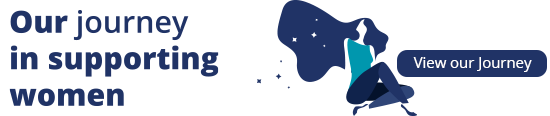
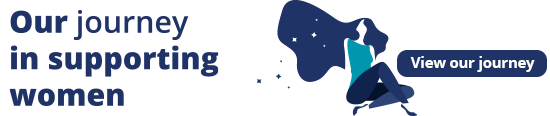
Fixed caps on the word journey

Changed region(s): [[0.7418, 0.4914, 0.9891, 0.6207]]

diff --git a/public/Women_Journey/index.html b/public/Women_Journey/index.html
@@ -91,7 +91,7 @@
                       <div class="circular--portrait">
                         <img src="Images/forum.jpg" >
                       </div>
-                        <h3 style="color: #ffffff;">SADC gender Forum </h3>
+                        <h3 style="color: #ffffff;">SADC gender forum </h3>
                         <p style="color: #ffffff;">Realizing that the data and analysis was not enough, we partnered with the Graca Machel Trust to host a SADC forum on issues pertaining to women and financial inclusion. The outcome of this was to map out a way forward which GMT and FMT could implement. </p>
                     </div>
                     <div class="point"></div>
@@ -135,7 +135,7 @@
                       <div class="circular--portrait">
                         <img src="Images/Gender_mainstream.jpg" >
                       </div>
-                        <h3 style="color: #ffffff;">FMT Gender Strategy   </h3>
+                        <h3 style="color: #ffffff;">FMT gender strategy   </h3>
                         <p style="color: #ffffff;">FMT established a Gender Strategy that we follow based on internal Gender training and prioritized actions.</p>
                     </div>
                     <div class="point"></div>
@@ -149,7 +149,7 @@
                       <div class="circular--portrait">
                         <img src="Images/strategy.jpg" >
                       </div>
-                        <h3 style="color: #ffffff;">FMT Gender Main  streaming    </h3>
+                        <h3 style="color: #ffffff;">FMT gender main  streaming    </h3>
                         <p style="color: #ffffff;">We now proactively leverage this strategy to ensure that all of our projects track and articulate their contribution to the lives of women in SADC</p>
                     </div>
                     <div class="point"></div>
